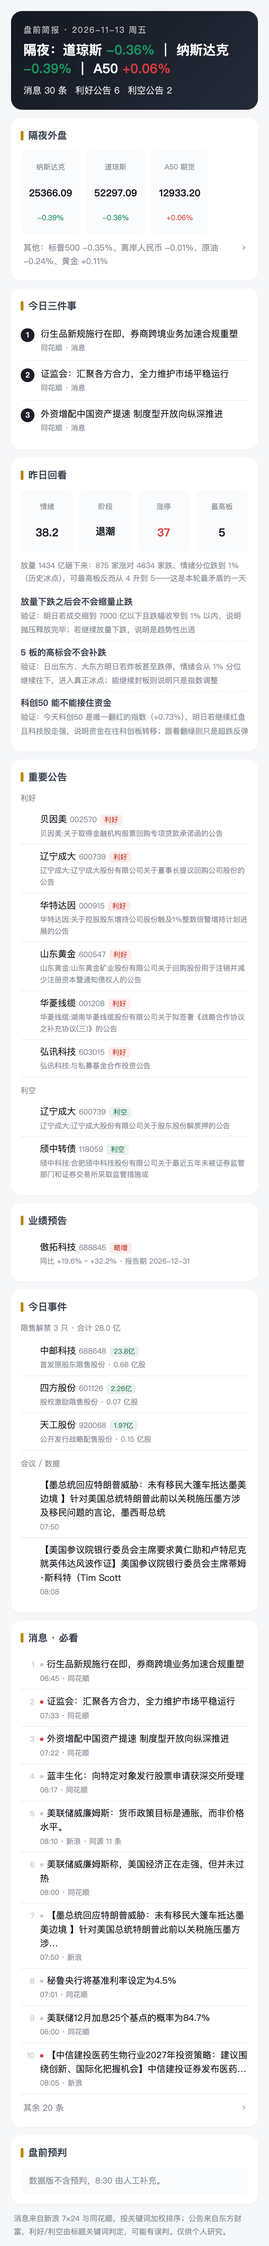
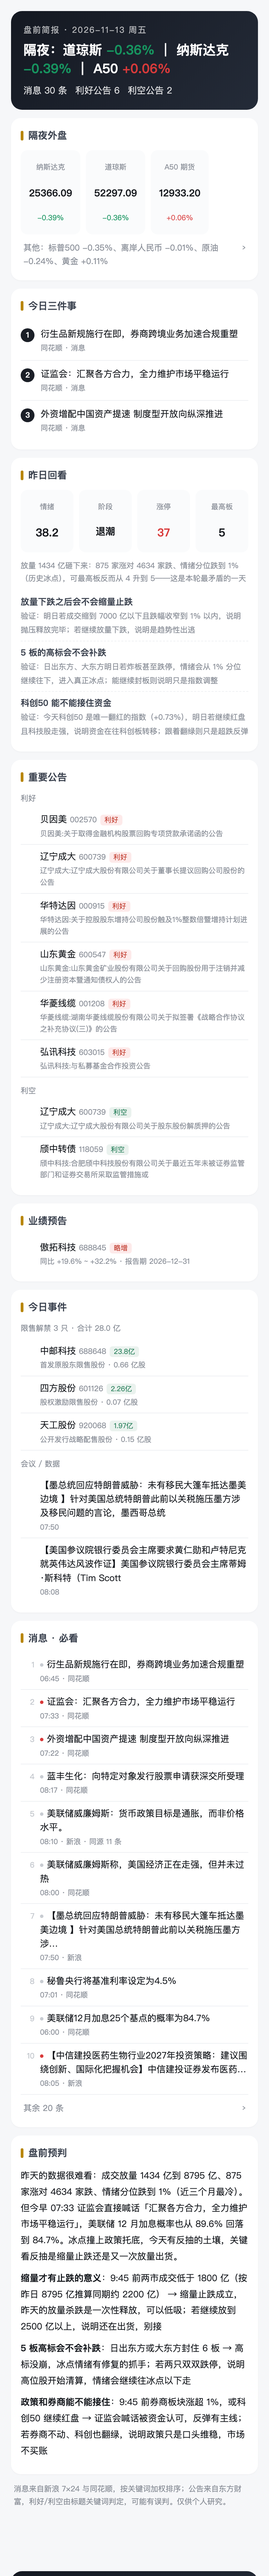
report: 2026-11-12

Changed region(s): [[0.0308, 0.0, 0.9538, 1.0], [0.8308, 0.5615, 0.8923, 0.6239], [0.6462, 0.4992, 0.7077, 0.5304]]

diff --git a/pre/2026-11-13/2026-11-13-盘前.html b/pre/2026-11-13/2026-11-13-盘前.html
@@ -57,4 +57,4 @@ padding:9px 16px;font-size:12.5px;max-width:560px;margin:0 auto}
 .nav a{color:#8a8f98;text-decoration:none;white-space:nowrap}
 .nav a.on{color:#1b1f27;font-weight:700}
 .nav a.home{color:#b8860b;font-weight:600}
-</style><link rel="manifest" href="/a-share-review/manifest.webmanifest"><meta name="theme-color" content="#1b1f27"><meta name="apple-mobile-web-app-capable" content="yes"><meta name="apple-mobile-web-app-status-bar-style" content="black-translucent"><meta name="apple-mobile-web-app-title" content="A股复盘"><link rel="apple-touch-icon" href="/a-share-review/icon-192.png"></head><body><div class="nav"><a class="home" href="../../index.html">⌂ 首页</a><a class="on" href="../../pre/index.html">盘前简报</a></div><div class="wrap"><div class="hero"><div class="d">盘前简报 · 2026-11-13 周五</div><h1>隔夜：道琼斯 <b class="down">-0.36%</b> ｜ 纳斯达克 <b class="down">-0.39%</b> ｜ A50 <b class="up">+0.06%</b></h1><div class="sum"><span>消息 30 条</span><span>利好公告 6</span><span>利空公告 2</span></div></div><div class="card"><h2>隔夜外盘</h2><div class="ov"><div><div class="n">纳斯达克</div><div class="v">25366.09</div><div class="p down">-0.39%</div></div><div><div class="n">道琼斯</div><div class="v">52297.09</div><div class="p down">-0.36%</div></div><div><div class="n">A50 期货</div><div class="v">12933.20</div><div class="p up">+0.06%</div></div></div><details class="more"><summary><span>其他：标普500 -0.35%、离岸人民币 -0.01%、原油 -0.24%、黄金 +0.11%</span><span class="arw">›</span></summary><div class="ov" style="margin-top:8px"><div><div class="n">标普500</div><div class="v">7592.40</div><div class="p down">-0.35%</div></div><div><div class="n">离岸人民币</div><div class="v">6.67</div><div class="p down">-0.01%</div></div><div><div class="n">原油</div><div class="v">88.53</div><div class="p down">-0.24%</div></div><div><div class="n">黄金</div><div class="v">3889.54</div><div class="p up">+0.11%</div></div></div></details></div><div class="card"><h2>今日三件事</h2><div class="t3"><div class="n">1</div><div><div class="t">衍生品新规施行在即，券商跨境业务加速合规重塑</div><div class="s">同花顺 · 消息</div></div></div><div class="t3"><div class="n">2</div><div><div class="t">证监会：汇聚各方合力，全力维护市场平稳运行</div><div class="s">同花顺 · 消息</div></div></div><div class="t3"><div class="n">3</div><div><div class="t">外资增配中国资产提速 制度型开放向纵深推进</div><div class="s">同花顺 · 消息</div></div></div></div><div class="card"><h2>昨日回看</h2><div class="kv"><div><div class="n">情绪</div><div class="v">38.2</div></div><div><div class="n">阶段</div><div class="v" style="font-size:14px">退潮</div></div><div><div class="n">涨停</div><div class="v up">37</div></div><div><div class="n">最高板</div><div class="v">5</div></div></div><div class="note" style="margin-bottom:8px">放量 1434 亿砸下来：875 家涨对 4634 家跌、情绪分位跌到 1%（历史冰点），可最高板反而从 4 升到 5——这是本轮最矛盾的一天</div><div class="watch"><b>放量下跌之后会不会缩量止跌</b><br><span class="note">验证：明日若成交缩到 7000 亿以下且跌幅收窄到 1% 以内，说明抛压释放完毕；若继续放量下跌，说明是趋势性出逃</span></div><div class="watch"><b>5 板的高标会不会补跌</b><br><span class="note">验证：日出东方、大东方明日若炸板甚至跌停，情绪会从 1% 分位继续往下，进入真正冰点；能继续封板则说明只是指数调整</span></div><div class="watch"><b>科创50 能不能接住资金</b><br><span class="note">验证：今天科创50 是唯一翻红的指数（+0.73%），明日若继续红盘且科技股走强，说明资金在往科创板转移；跟着翻绿则只是超跌反弹</span></div></div><div class="card"><h2>重要公告</h2><div class="note" style="margin-bottom:4px">利好</div><div class="item"><div class="no"></div><div class="b"><div class="t">贝因美 <span class="mut" style="font-size:11px">002570</span><span class="tag tag-good">利好</span></div><div class="m">贝因美:关于取得金融机构股票回购专项贷款承诺函的公告</div></div></div><div class="item"><div class="no"></div><div class="b"><div class="t">辽宁成大 <span class="mut" style="font-size:11px">600739</span><span class="tag tag-good">利好</span></div><div class="m">辽宁成大:辽宁成大股份有限公司关于董事长提议回购公司股份的公告</div></div></div><div class="item"><div class="no"></div><div class="b"><div class="t">华特达因 <span class="mut" style="font-size:11px">000915</span><span class="tag tag-good">利好</span></div><div class="m">华特达因:关于控股股东增持公司股份触及1%整数倍暨增持计划进展的公告</div></div></div><div class="item"><div class="no"></div><div class="b"><div class="t">山东黄金 <span class="mut" style="font-size:11px">600547</span><span class="tag tag-good">利好</span></div><div class="m">山东黄金:山东黄金矿业股份有限公司关于回购股份用于注销并减少注册资本暨通知债权人的公告</div></div></div><div class="item"><div class="no"></div><div class="b"><div class="t">华菱线缆 <span class="mut" style="font-size:11px">001208</span><span class="tag tag-good">利好</span></div><div class="m">华菱线缆:湖南华菱线缆股份有限公司关于拟签署《战略合作协议之补充协议(三)》的公告</div></div></div><div class="item"><div class="no"></div><div class="b"><div class="t">弘讯科技 <span class="mut" style="font-size:11px">603015</span><span class="tag tag-good">利好</span></div><div class="m">弘讯科技:与私募基金合作投资公告</div></div></div><div class="note" style="margin:10px 0 4px">利空</div><div class="item"><div class="no"></div><div class="b"><div class="t">辽宁成大 <span class="mut" style="font-size:11px">600739</span><span class="tag tag-bad">利空</span></div><div class="m">辽宁成大:辽宁成大股份有限公司关于股东股份解质押的公告</div></div></div><div class="item"><div class="no"></div><div class="b"><div class="t">颀中转债 <span class="mut" style="font-size:11px">118059</span><span class="tag tag-bad">利空</span></div><div class="m">颀中科技:合肥颀中科技股份有限公司关于最近五年未被证券监管部门和证券交易所采取监管措施或</div></div></div></div><div class="card"><h2>业绩预告</h2><div class="item"><div class="no"></div><div class="b"><div class="t">傲拓科技 <span class="mut" style="font-size:11px">688845</span><span class="tag tag-good">略增</span></div><div class="m">同比 +19.6% ~ +32.2% · 报告期 2026-12-31</div></div></div></div><div class="card"><h2>今日事件</h2><div class="note" style="margin-bottom:6px">限售解禁 3 只 · 合计 28.0 亿</div><div class="item"><div class="no"></div><div class="b"><div class="t">中邮科技 <span class="mut" style="font-size:11px">688648</span><span class="tag tag-bad">23.8亿</span></div><div class="m">首发原股东限售股份 · 0.66 亿股</div></div></div><div class="item"><div class="no"></div><div class="b"><div class="t">四方股份 <span class="mut" style="font-size:11px">601126</span><span class="tag tag-bad">2.26亿</span></div><div class="m">股权激励限售股份 · 0.07 亿股</div></div></div><div class="item"><div class="no"></div><div class="b"><div class="t">天工股份 <span class="mut" style="font-size:11px">920068</span><span class="tag tag-bad">1.97亿</span></div><div class="m">公开发行战略配售股份 · 0.15 亿股</div></div></div><div class="note" style="margin:10px 0 4px">会议 / 数据</div><div class="item"><div class="no"></div><div class="b"><div class="t">【墨总统回应特朗普威胁：未有移民大篷车抵达墨美边境 】针对美国总统特朗普此前以关税施压墨方涉及移民问题的言论，墨西哥总统</div><div class="m">07:50</div></div></div><div class="item"><div class="no"></div><div class="b"><div class="t">【美国参议院银行委员会主席要求黄仁勋和卢特尼克就英伟达风波作证】美国参议院银行委员会主席蒂姆·斯科特（Tim Scott</div><div class="m">08:08</div></div></div></div><div class="card"><h2>消息 · 必看</h2><div class="item"><div class="no">1</div><div class="b"><div class="t"><span class="dot n"></span>衍生品新规施行在即，券商跨境业务加速合规重塑</div><div class="m">06:45 · 同花顺</div></div></div><div class="item"><div class="no">2</div><div class="b"><div class="t"><span class="dot g"></span>证监会：汇聚各方合力，全力维护市场平稳运行</div><div class="m">07:33 · 同花顺</div></div></div><div class="item"><div class="no">3</div><div class="b"><div class="t"><span class="dot g"></span>外资增配中国资产提速 制度型开放向纵深推进</div><div class="m">07:22 · 同花顺</div></div></div><div class="item"><div class="no">4</div><div class="b"><div class="t"><span class="dot n"></span>蓝丰生化：向特定对象发行股票申请获深交所受理</div><div class="m">08:17 · 同花顺</div></div></div><div class="item"><div class="no">5</div><div class="b"><div class="t"><span class="dot n"></span>美联储威廉姆斯：货币政策目标是通胀，而非价格水平。</div><div class="m">08:10 · 新浪 · 同源 11 条</div></div></div><div class="item"><div class="no">6</div><div class="b"><div class="t"><span class="dot n"></span>美联储威廉姆斯称，美国经济正在走强，但并未过热</div><div class="m">08:00 · 同花顺</div></div></div><div class="item"><div class="no">7</div><div class="b"><div class="t"><span class="dot n"></span>【墨总统回应特朗普威胁：未有移民大篷车抵达墨美边境 】针对美国总统特朗普此前以关税施压墨方涉…</div><div class="m">07:50 · 新浪</div></div></div><div class="item"><div class="no">8</div><div class="b"><div class="t"><span class="dot n"></span>秘鲁央行将基准利率设定为4.5%</div><div class="m">07:01 · 同花顺</div></div></div><div class="item"><div class="no">9</div><div class="b"><div class="t"><span class="dot n"></span>美联储12月加息25个基点的概率为84.7%</div><div class="m">06:00 · 同花顺</div></div></div><div class="item"><div class="no">10</div><div class="b"><div class="t"><span class="dot g"></span>【中信建投医药生物行业2027年投资策略：建议围绕创新、国际化把握机会】中信建投证券发布医药…</div><div class="m">08:05 · 新浪</div></div></div><details class="more"><summary><span>其余 20 条</span><span class="arw">›</span></summary><div class="item"><div class="no">11</div><div class="b"><div class="t"><span class="dot g"></span>【华泰证券：AI产业内部或沿回报验证分化】华泰证券研报称，AI产业内部或沿回报验证分化。过去…</div><div class="m">08:00 · 新浪 · 同源 3 条</div></div></div><div class="item"><div class="no">12</div><div class="b"><div class="t"><span class="dot g"></span>【中国代表团在国际电联2026年全权代表大会期间举行招待会】据“工信微报”消息，11月12日…</div><div class="m">07:45 · 新浪</div></div></div><div class="item"><div class="no">13</div><div class="b"><div class="t"><span class="dot g"></span>【三大变化折射证券行业2027年发展前景 板块左侧战略配置价值逐步显现】临近年底，机构对各个…</div><div class="m">07:29 · 新浪</div></div></div><div class="item"><div class="no">14</div><div class="b"><div class="t"><span class="dot g"></span>国星宇航今日登陆港股市场</div><div class="m">06:39 · 同花顺</div></div></div><div class="item"><div class="no">15</div><div class="b"><div class="t"><span class="dot n"></span>美国参议员蒂姆·斯科特传唤黄仁勋与霍华德·卢特尼克，就英伟达风波作证</div><div class="m">08:12 · 同花顺</div></div></div><div class="item"><div class="no">16</div><div class="b"><div class="t"><span class="dot n"></span>【美国参议院银行委员会主席要求黄仁勋和卢特尼克就英伟达风波作证】美国参议院银行委员会主席蒂姆…</div><div class="m">08:08 · 新浪</div></div></div><div class="item"><div class="no">17</div><div class="b"><div class="t"><span class="dot n"></span>【英伟达临时CEO科莱特·克雷斯曾试图管控公司最高风险的业务押注】据报道，英伟达于周四任命其…</div><div class="m">07:36 · 新浪</div></div></div><div class="item"><div class="no">18</div><div class="b"><div class="t"><span class="dot g"></span>纽约期金突破3890美元/盎司，日内涨0.12%。</div><div class="m">08:03 · 新浪</div></div></div><div class="item"><div class="no">19</div><div class="b"><div class="t"><span class="dot g"></span>【Kalshi终止与特朗普长子小唐纳德·特朗普的顾问合作，因其风投公司增持竞争对手Polym…</div><div class="m">07:35 · 新浪</div></div></div><div class="item"><div class="no">20</div><div class="b"><div class="t"><span class="dot g"></span>云顶新耀：依嘉100mg规格获中国国家药品监督管理局批准</div><div class="m">07:17 · 同花顺</div></div></div><div class="item"><div class="no">21</div><div class="b"><div class="t"><span class="dot g"></span>阿富汗与俄罗斯签署经济合作谅解备忘录</div><div class="m">06:10 · 同花顺</div></div></div><div class="item"><div class="no">22</div><div class="b"><div class="t"><span class="dot b2"></span>维珍银河第三财季营收43万美元 高于市场估计的40万美元</div><div class="m">05:32 · 同花顺</div></div></div><div class="item"><div class="no">23</div><div class="b"><div class="t"><span class="dot b2"></span>Cerebras Systems第三财季核心营收为2.309亿美元</div><div class="m">05:10 · 同花顺</div></div></div><div class="item"><div class="no">24</div><div class="b"><div class="t"><span class="dot n"></span>【国金证券：创新药全球价值重估，商业化兑现开启新周期】国金证券研报表示，中国创新药供给端依托…</div><div class="m">08:18 · 新浪</div></div></div><div class="item"><div class="no">25</div><div class="b"><div class="t"><span class="dot n"></span>SK海力士股价领涨韩国芯片股。SK海力士股价早盘上涨4.6%，报1,312,000韩元。三星…</div><div class="m">08:15 · 新浪</div></div></div><div class="item"><div class="no">26</div><div class="b"><div class="t"><span class="dot n"></span>日本芯片相关股票大幅上涨。铠侠股价上涨5.9%，爱德万测试攀升6.5%，揖斐电电子上涨5.1…</div><div class="m">08:14 · 新浪</div></div></div><div class="item"><div class="no">27</div><div class="b"><div class="t"><span class="dot n"></span>【中信证券：产业链盈利逐步修复，锂电板块投资价值凸显】中信证券研报称，从电池与能源管理产业链…</div><div class="m">08:13 · 新浪</div></div></div><div class="item"><div class="no">28</div><div class="b"><div class="t"><span class="dot n"></span>【微软多项服务宕机】微软旗下Microsoft 365、Outlook（电子邮件）、Team…</div><div class="m">08:05 · 新浪</div></div></div><div class="item"><div class="no">29</div><div class="b"><div class="t"><span class="dot n"></span>【消息称三星正洽谈收购数据中心冷却设备制造商摩丁】据知情人士透露，三星电子正在洽谈收购数据中…</div><div class="m">07:46 · 新浪</div></div></div><div class="item"><div class="no">30</div><div class="b"><div class="t"><span class="dot n"></span>【轨道资源日趋拥挤、巨型星座批量组网 轨道空间碎片治理成刚需】作为国内首颗空间碎片监测商业卫…</div><div class="m">07:42 · 新浪</div></div></div></details></div><div class="card"><h2>盘前预判</h2><div class="empty">数据版不含预判，8:30 由人工补充。</div></div><div class="note" style="padding:0 4px">消息来自新浪 7×24 与同花顺，按关键词加权排序；公告来自东方财富，利好/利空由标题关键词判定，可能有误判。仅供个人研究。</div></div></body></html>
+</style><link rel="manifest" href="/a-share-review/manifest.webmanifest"><meta name="theme-color" content="#1b1f27"><meta name="apple-mobile-web-app-capable" content="yes"><meta name="apple-mobile-web-app-status-bar-style" content="black-translucent"><meta name="apple-mobile-web-app-title" content="A股复盘"><link rel="apple-touch-icon" href="/a-share-review/icon-192.png"></head><body><div class="nav"><a class="home" href="../../index.html">⌂ 首页</a><a class="on" href="../../pre/index.html">盘前简报</a></div><div class="wrap"><div class="hero"><div class="d">盘前简报 · 2026-11-13 周五</div><h1>隔夜：道琼斯 <b class="down">-0.36%</b> ｜ 纳斯达克 <b class="down">-0.39%</b> ｜ A50 <b class="up">+0.06%</b></h1><div class="sum"><span>消息 30 条</span><span>利好公告 6</span><span>利空公告 2</span></div></div><div class="card"><h2>隔夜外盘</h2><div class="ov"><div><div class="n">纳斯达克</div><div class="v">25366.09</div><div class="p down">-0.39%</div></div><div><div class="n">道琼斯</div><div class="v">52297.09</div><div class="p down">-0.36%</div></div><div><div class="n">A50 期货</div><div class="v">12933.20</div><div class="p up">+0.06%</div></div></div><details class="more"><summary><span>其他：标普500 -0.35%、离岸人民币 -0.01%、原油 -0.24%、黄金 +0.11%</span><span class="arw">›</span></summary><div class="ov" style="margin-top:8px"><div><div class="n">标普500</div><div class="v">7592.40</div><div class="p down">-0.35%</div></div><div><div class="n">离岸人民币</div><div class="v">6.67</div><div class="p down">-0.01%</div></div><div><div class="n">原油</div><div class="v">88.53</div><div class="p down">-0.24%</div></div><div><div class="n">黄金</div><div class="v">3889.54</div><div class="p up">+0.11%</div></div></div></details></div><div class="card"><h2>今日三件事</h2><div class="t3"><div class="n">1</div><div><div class="t">衍生品新规施行在即，券商跨境业务加速合规重塑</div><div class="s">同花顺 · 消息</div></div></div><div class="t3"><div class="n">2</div><div><div class="t">证监会：汇聚各方合力，全力维护市场平稳运行</div><div class="s">同花顺 · 消息</div></div></div><div class="t3"><div class="n">3</div><div><div class="t">外资增配中国资产提速 制度型开放向纵深推进</div><div class="s">同花顺 · 消息</div></div></div></div><div class="card"><h2>昨日回看</h2><div class="kv"><div><div class="n">情绪</div><div class="v">38.2</div></div><div><div class="n">阶段</div><div class="v" style="font-size:14px">退潮</div></div><div><div class="n">涨停</div><div class="v up">37</div></div><div><div class="n">最高板</div><div class="v">5</div></div></div><div class="note" style="margin-bottom:8px">放量 1434 亿砸下来：875 家涨对 4634 家跌、情绪分位跌到 1%（历史冰点），可最高板反而从 4 升到 5——这是本轮最矛盾的一天</div><div class="watch"><b>放量下跌之后会不会缩量止跌</b><br><span class="note">验证：明日若成交缩到 7000 亿以下且跌幅收窄到 1% 以内，说明抛压释放完毕；若继续放量下跌，说明是趋势性出逃</span></div><div class="watch"><b>5 板的高标会不会补跌</b><br><span class="note">验证：日出东方、大东方明日若炸板甚至跌停，情绪会从 1% 分位继续往下，进入真正冰点；能继续封板则说明只是指数调整</span></div><div class="watch"><b>科创50 能不能接住资金</b><br><span class="note">验证：今天科创50 是唯一翻红的指数（+0.73%），明日若继续红盘且科技股走强，说明资金在往科创板转移；跟着翻绿则只是超跌反弹</span></div></div><div class="card"><h2>重要公告</h2><div class="note" style="margin-bottom:4px">利好</div><div class="item"><div class="no"></div><div class="b"><div class="t">贝因美 <span class="mut" style="font-size:11px">002570</span><span class="tag tag-good">利好</span></div><div class="m">贝因美:关于取得金融机构股票回购专项贷款承诺函的公告</div></div></div><div class="item"><div class="no"></div><div class="b"><div class="t">辽宁成大 <span class="mut" style="font-size:11px">600739</span><span class="tag tag-good">利好</span></div><div class="m">辽宁成大:辽宁成大股份有限公司关于董事长提议回购公司股份的公告</div></div></div><div class="item"><div class="no"></div><div class="b"><div class="t">华特达因 <span class="mut" style="font-size:11px">000915</span><span class="tag tag-good">利好</span></div><div class="m">华特达因:关于控股股东增持公司股份触及1%整数倍暨增持计划进展的公告</div></div></div><div class="item"><div class="no"></div><div class="b"><div class="t">山东黄金 <span class="mut" style="font-size:11px">600547</span><span class="tag tag-good">利好</span></div><div class="m">山东黄金:山东黄金矿业股份有限公司关于回购股份用于注销并减少注册资本暨通知债权人的公告</div></div></div><div class="item"><div class="no"></div><div class="b"><div class="t">华菱线缆 <span class="mut" style="font-size:11px">001208</span><span class="tag tag-good">利好</span></div><div class="m">华菱线缆:湖南华菱线缆股份有限公司关于拟签署《战略合作协议之补充协议(三)》的公告</div></div></div><div class="item"><div class="no"></div><div class="b"><div class="t">弘讯科技 <span class="mut" style="font-size:11px">603015</span><span class="tag tag-good">利好</span></div><div class="m">弘讯科技:与私募基金合作投资公告</div></div></div><div class="note" style="margin:10px 0 4px">利空</div><div class="item"><div class="no"></div><div class="b"><div class="t">辽宁成大 <span class="mut" style="font-size:11px">600739</span><span class="tag tag-bad">利空</span></div><div class="m">辽宁成大:辽宁成大股份有限公司关于股东股份解质押的公告</div></div></div><div class="item"><div class="no"></div><div class="b"><div class="t">颀中转债 <span class="mut" style="font-size:11px">118059</span><span class="tag tag-bad">利空</span></div><div class="m">颀中科技:合肥颀中科技股份有限公司关于最近五年未被证券监管部门和证券交易所采取监管措施或</div></div></div></div><div class="card"><h2>业绩预告</h2><div class="item"><div class="no"></div><div class="b"><div class="t">傲拓科技 <span class="mut" style="font-size:11px">688845</span><span class="tag tag-good">略增</span></div><div class="m">同比 +19.6% ~ +32.2% · 报告期 2026-12-31</div></div></div></div><div class="card"><h2>今日事件</h2><div class="note" style="margin-bottom:6px">限售解禁 3 只 · 合计 28.0 亿</div><div class="item"><div class="no"></div><div class="b"><div class="t">中邮科技 <span class="mut" style="font-size:11px">688648</span><span class="tag tag-bad">23.8亿</span></div><div class="m">首发原股东限售股份 · 0.66 亿股</div></div></div><div class="item"><div class="no"></div><div class="b"><div class="t">四方股份 <span class="mut" style="font-size:11px">601126</span><span class="tag tag-bad">2.26亿</span></div><div class="m">股权激励限售股份 · 0.07 亿股</div></div></div><div class="item"><div class="no"></div><div class="b"><div class="t">天工股份 <span class="mut" style="font-size:11px">920068</span><span class="tag tag-bad">1.97亿</span></div><div class="m">公开发行战略配售股份 · 0.15 亿股</div></div></div><div class="note" style="margin:10px 0 4px">会议 / 数据</div><div class="item"><div class="no"></div><div class="b"><div class="t">【墨总统回应特朗普威胁：未有移民大篷车抵达墨美边境 】针对美国总统特朗普此前以关税施压墨方涉及移民问题的言论，墨西哥总统</div><div class="m">07:50</div></div></div><div class="item"><div class="no"></div><div class="b"><div class="t">【美国参议院银行委员会主席要求黄仁勋和卢特尼克就英伟达风波作证】美国参议院银行委员会主席蒂姆·斯科特（Tim Scott</div><div class="m">08:08</div></div></div></div><div class="card"><h2>消息 · 必看</h2><div class="item"><div class="no">1</div><div class="b"><div class="t"><span class="dot n"></span>衍生品新规施行在即，券商跨境业务加速合规重塑</div><div class="m">06:45 · 同花顺</div></div></div><div class="item"><div class="no">2</div><div class="b"><div class="t"><span class="dot g"></span>证监会：汇聚各方合力，全力维护市场平稳运行</div><div class="m">07:33 · 同花顺</div></div></div><div class="item"><div class="no">3</div><div class="b"><div class="t"><span class="dot g"></span>外资增配中国资产提速 制度型开放向纵深推进</div><div class="m">07:22 · 同花顺</div></div></div><div class="item"><div class="no">4</div><div class="b"><div class="t"><span class="dot n"></span>蓝丰生化：向特定对象发行股票申请获深交所受理</div><div class="m">08:17 · 同花顺</div></div></div><div class="item"><div class="no">5</div><div class="b"><div class="t"><span class="dot n"></span>美联储威廉姆斯：货币政策目标是通胀，而非价格水平。</div><div class="m">08:10 · 新浪 · 同源 11 条</div></div></div><div class="item"><div class="no">6</div><div class="b"><div class="t"><span class="dot n"></span>美联储威廉姆斯称，美国经济正在走强，但并未过热</div><div class="m">08:00 · 同花顺</div></div></div><div class="item"><div class="no">7</div><div class="b"><div class="t"><span class="dot n"></span>【墨总统回应特朗普威胁：未有移民大篷车抵达墨美边境 】针对美国总统特朗普此前以关税施压墨方涉…</div><div class="m">07:50 · 新浪</div></div></div><div class="item"><div class="no">8</div><div class="b"><div class="t"><span class="dot n"></span>秘鲁央行将基准利率设定为4.5%</div><div class="m">07:01 · 同花顺</div></div></div><div class="item"><div class="no">9</div><div class="b"><div class="t"><span class="dot n"></span>美联储12月加息25个基点的概率为84.7%</div><div class="m">06:00 · 同花顺</div></div></div><div class="item"><div class="no">10</div><div class="b"><div class="t"><span class="dot g"></span>【中信建投医药生物行业2027年投资策略：建议围绕创新、国际化把握机会】中信建投证券发布医药…</div><div class="m">08:05 · 新浪</div></div></div><details class="more"><summary><span>其余 20 条</span><span class="arw">›</span></summary><div class="item"><div class="no">11</div><div class="b"><div class="t"><span class="dot g"></span>【华泰证券：AI产业内部或沿回报验证分化】华泰证券研报称，AI产业内部或沿回报验证分化。过去…</div><div class="m">08:00 · 新浪 · 同源 3 条</div></div></div><div class="item"><div class="no">12</div><div class="b"><div class="t"><span class="dot g"></span>【中国代表团在国际电联2026年全权代表大会期间举行招待会】据“工信微报”消息，11月12日…</div><div class="m">07:45 · 新浪</div></div></div><div class="item"><div class="no">13</div><div class="b"><div class="t"><span class="dot g"></span>【三大变化折射证券行业2027年发展前景 板块左侧战略配置价值逐步显现】临近年底，机构对各个…</div><div class="m">07:29 · 新浪</div></div></div><div class="item"><div class="no">14</div><div class="b"><div class="t"><span class="dot g"></span>国星宇航今日登陆港股市场</div><div class="m">06:39 · 同花顺</div></div></div><div class="item"><div class="no">15</div><div class="b"><div class="t"><span class="dot n"></span>美国参议员蒂姆·斯科特传唤黄仁勋与霍华德·卢特尼克，就英伟达风波作证</div><div class="m">08:12 · 同花顺</div></div></div><div class="item"><div class="no">16</div><div class="b"><div class="t"><span class="dot n"></span>【美国参议院银行委员会主席要求黄仁勋和卢特尼克就英伟达风波作证】美国参议院银行委员会主席蒂姆…</div><div class="m">08:08 · 新浪</div></div></div><div class="item"><div class="no">17</div><div class="b"><div class="t"><span class="dot n"></span>【英伟达临时CEO科莱特·克雷斯曾试图管控公司最高风险的业务押注】据报道，英伟达于周四任命其…</div><div class="m">07:36 · 新浪</div></div></div><div class="item"><div class="no">18</div><div class="b"><div class="t"><span class="dot g"></span>纽约期金突破3890美元/盎司，日内涨0.12%。</div><div class="m">08:03 · 新浪</div></div></div><div class="item"><div class="no">19</div><div class="b"><div class="t"><span class="dot g"></span>【Kalshi终止与特朗普长子小唐纳德·特朗普的顾问合作，因其风投公司增持竞争对手Polym…</div><div class="m">07:35 · 新浪</div></div></div><div class="item"><div class="no">20</div><div class="b"><div class="t"><span class="dot g"></span>云顶新耀：依嘉100mg规格获中国国家药品监督管理局批准</div><div class="m">07:17 · 同花顺</div></div></div><div class="item"><div class="no">21</div><div class="b"><div class="t"><span class="dot g"></span>阿富汗与俄罗斯签署经济合作谅解备忘录</div><div class="m">06:10 · 同花顺</div></div></div><div class="item"><div class="no">22</div><div class="b"><div class="t"><span class="dot b2"></span>维珍银河第三财季营收43万美元 高于市场估计的40万美元</div><div class="m">05:32 · 同花顺</div></div></div><div class="item"><div class="no">23</div><div class="b"><div class="t"><span class="dot b2"></span>Cerebras Systems第三财季核心营收为2.309亿美元</div><div class="m">05:10 · 同花顺</div></div></div><div class="item"><div class="no">24</div><div class="b"><div class="t"><span class="dot n"></span>【国金证券：创新药全球价值重估，商业化兑现开启新周期】国金证券研报表示，中国创新药供给端依托…</div><div class="m">08:18 · 新浪</div></div></div><div class="item"><div class="no">25</div><div class="b"><div class="t"><span class="dot n"></span>SK海力士股价领涨韩国芯片股。SK海力士股价早盘上涨4.6%，报1,312,000韩元。三星…</div><div class="m">08:15 · 新浪</div></div></div><div class="item"><div class="no">26</div><div class="b"><div class="t"><span class="dot n"></span>日本芯片相关股票大幅上涨。铠侠股价上涨5.9%，爱德万测试攀升6.5%，揖斐电电子上涨5.1…</div><div class="m">08:14 · 新浪</div></div></div><div class="item"><div class="no">27</div><div class="b"><div class="t"><span class="dot n"></span>【中信证券：产业链盈利逐步修复，锂电板块投资价值凸显】中信证券研报称，从电池与能源管理产业链…</div><div class="m">08:13 · 新浪</div></div></div><div class="item"><div class="no">28</div><div class="b"><div class="t"><span class="dot n"></span>【微软多项服务宕机】微软旗下Microsoft 365、Outlook（电子邮件）、Team…</div><div class="m">08:05 · 新浪</div></div></div><div class="item"><div class="no">29</div><div class="b"><div class="t"><span class="dot n"></span>【消息称三星正洽谈收购数据中心冷却设备制造商摩丁】据知情人士透露，三星电子正在洽谈收购数据中…</div><div class="m">07:46 · 新浪</div></div></div><div class="item"><div class="no">30</div><div class="b"><div class="t"><span class="dot n"></span>【轨道资源日趋拥挤、巨型星座批量组网 轨道空间碎片治理成刚需】作为国内首颗空间碎片监测商业卫…</div><div class="m">07:42 · 新浪</div></div></div></details></div><div class="card"><h2>盘前预判</h2><div class="jd"><p>昨天的数据很难看：成交放量 1434 亿到 8795 亿、875 家涨对 4634 家跌、情绪分位跌到 1%（近三个月最冷）。但今早 07:33 证监会直接喊话「汇聚各方合力，全力维护市场平稳运行」，美联储 12 月加息概率也从 89.6% 回落到 84.7%。冰点撞上政策托底，今天有反抽的土壤，关键看反抽是缩量止跌还是又一次放量出货。</p><p><b>缩量才有止跌的意义</b>：9:45 前两市成交低于 1800 亿（按昨日 8795 亿推算同期约 2200 亿） → 缩量止跌成立，昨天的放量杀跌是一次性释放，可以低吸；若继续放到 2500 亿以上，说明还在出货，别接</p><p><b>5 板高标会不会补跌</b>：日出东方或大东方封住 6 板 → 高标没崩，冰点情绪有修复的抓手；若两只双双跌停，说明高位股开始清算，情绪会继续往冰点以下走</p><p><b>政策和券商能不能接住</b>：9:45 前券商板块涨超 1%，或科创50 继续红盘 → 证监会喊话被资金认可，反弹有主线；若券商不动、科创也翻绿，说明政策只是口头维稳，市场不买账</p></div></div><div class="note" style="padding:0 4px">消息来自新浪 7×24 与同花顺，按关键词加权排序；公告来自东方财富，利好/利空由标题关键词判定，可能有误判。仅供个人研究。</div></div></body></html>

diff --git a/pre/index.html b/pre/index.html
@@ -47,6 +47,6 @@ padding-bottom:env(safe-area-inset-bottom)}
 .tabbar a.on::after{content:"";display:block;width:18px;height:2.5px;border-radius:2px;background:var(--gold);margin:5px auto 0}
 </style><link rel="manifest" href="/a-share-review/manifest.webmanifest"><meta name="theme-color" content="#1b1f27"><meta name="apple-mobile-web-app-capable" content="yes"><meta name="apple-mobile-web-app-status-bar-style" content="black-translucent"><meta name="apple-mobile-web-app-title" content="A股复盘"><link rel="apple-touch-icon" href="/a-share-review/icon-192.png"></head><body><div class="wrap">
 <div class="head"><h1>盘前简报</h1><div class="sub">共 10 篇 · 交易日 08:20</div></div>
-<a class="hero" href="2026-11-13/2026-11-13-盘前.html?v=1794529208"><div class="ht">最新盘前 · 2026-11-13</div><div class="hrow"><div><div class="hn">纳指</div><div class="hv down">-0.39%</div></div><div><div class="hn">道指</div><div class="hv down">-0.36%</div></div><div><div class="hn">A50</div><div class="hv up">+0.06%</div></div><div><div class="hn">消息</div><div class="hv">30</div></div></div><div class="hb">点开看完整盘前简报 →</div></a>
-<details class="month" open><summary><span><b>2026-11</b>　10 篇</span><span class="arw">›</span></summary><div class="list"><a class="row" href="2026-11-13/2026-11-13-盘前.html?v=1794529208"><div class="rl"><div class="rd">11-13</div><div class="rw">周五</div></div><div class="rm"><span class="k down">纳指 -0.39%</span><span class="k2">30 条消息</span></div></a><a class="row" href="2026-11-12/2026-11-12-盘前.html?v=1794443410"><div class="rl"><div class="rd">11-12</div><div class="rw">周四</div></div><div class="rm"><span class="k up">纳指 +1.60%</span><span class="k2">30 条消息</span><span class="tag2">预判</span></div></a><a class="row" href="2026-11-11/2026-11-11-盘前.html?v=1794357010"><div class="rl"><div class="rd">11-11</div><div class="rw">周三</div></div><div class="rm"><span class="k down">纳指 -0.74%</span><span class="k2">30 条消息</span><span class="tag2">预判</span></div></a><a class="row" href="2026-11-10/2026-11-10-盘前.html?v=1794270612"><div class="rl"><div class="rd">11-10</div><div class="rw">周二</div></div><div class="rm"><span class="k up">纳指 +2.74%</span><span class="k2">30 条消息</span><span class="tag2">预判</span></div></a><a class="row" href="2026-11-09/2026-11-09-盘前.html?v=1794194683"><div class="rl"><div class="rd">11-09</div><div class="rw">周一</div></div><div class="rm"><span class="k up">纳指 +1.09%</span><span class="k2">30 条消息</span><span class="tag2">预判</span></div></a><a class="row" href="2026-11-06/2026-11-06-盘前.html?v=1793928167"><div class="rl"><div class="rd">11-06</div><div class="rw">周五</div></div><div class="rm"><span class="k down">纳指 -5.52%</span><span class="k2">30 条消息</span><span class="tag2">预判</span></div></a><a class="row" href="2026-11-05/2026-11-05-盘前.html?v=1793928167"><div class="rl"><div class="rd">11-05</div><div class="rw">周四</div></div><div class="rm"><span class="k up">纳指 +1.44%</span><span class="k2">18 条消息</span><span class="tag2">预判</span></div></a><a class="row" href="2026-11-04/2026-11-04-盘前.html?v=1793928167"><div class="rl"><div class="rd">11-04</div><div class="rw">周三</div></div><div class="rm"><span class="k up">纳指 +0.83%</span><span class="k2">30 条消息</span><span class="tag2">预判</span></div></a><a class="row" href="2026-11-03/2026-11-03-盘前.html?v=1793928166"><div class="rl"><div class="rd">11-03</div><div class="rw">周二</div></div><div class="rm"><span class="k down">纳指 -1.07%</span><span class="k2">30 条消息</span><span class="tag2">预判</span></div></a><a class="row" href="2026-11-02/2026-11-02-盘前.html?v=1793928166"><div class="rl"><div class="rd">11-02</div><div class="rw">周一</div></div><div class="rm"><span class="k down">纳指 -2.86%</span><span class="k2">30 条消息</span></div></a></div></details>
+<a class="hero" href="2026-11-13/2026-11-13-盘前.html?v=1794529811"><div class="ht">最新盘前 · 2026-11-13</div><div class="hrow"><div><div class="hn">纳指</div><div class="hv down">-0.39%</div></div><div><div class="hn">道指</div><div class="hv down">-0.36%</div></div><div><div class="hn">A50</div><div class="hv up">+0.06%</div></div><div><div class="hn">消息</div><div class="hv">30</div></div></div><div class="hj">昨天的数据很难看：成交放量 1434 亿到 8795 亿、875 家涨对 4634 家跌、情绪分位跌到 1%（近三个月最</div><div class="hb">点开看完整盘前简报 →</div></a>
+<details class="month" open><summary><span><b>2026-11</b>　10 篇</span><span class="arw">›</span></summary><div class="list"><a class="row" href="2026-11-13/2026-11-13-盘前.html?v=1794529811"><div class="rl"><div class="rd">11-13</div><div class="rw">周五</div></div><div class="rm"><span class="k down">纳指 -0.39%</span><span class="k2">30 条消息</span><span class="tag2">预判</span></div></a><a class="row" href="2026-11-12/2026-11-12-盘前.html?v=1794443410"><div class="rl"><div class="rd">11-12</div><div class="rw">周四</div></div><div class="rm"><span class="k up">纳指 +1.60%</span><span class="k2">30 条消息</span><span class="tag2">预判</span></div></a><a class="row" href="2026-11-11/2026-11-11-盘前.html?v=1794357010"><div class="rl"><div class="rd">11-11</div><div class="rw">周三</div></div><div class="rm"><span class="k down">纳指 -0.74%</span><span class="k2">30 条消息</span><span class="tag2">预判</span></div></a><a class="row" href="2026-11-10/2026-11-10-盘前.html?v=1794270612"><div class="rl"><div class="rd">11-10</div><div class="rw">周二</div></div><div class="rm"><span class="k up">纳指 +2.74%</span><span class="k2">30 条消息</span><span class="tag2">预判</span></div></a><a class="row" href="2026-11-09/2026-11-09-盘前.html?v=1794194683"><div class="rl"><div class="rd">11-09</div><div class="rw">周一</div></div><div class="rm"><span class="k up">纳指 +1.09%</span><span class="k2">30 条消息</span><span class="tag2">预判</span></div></a><a class="row" href="2026-11-06/2026-11-06-盘前.html?v=1793928167"><div class="rl"><div class="rd">11-06</div><div class="rw">周五</div></div><div class="rm"><span class="k down">纳指 -5.52%</span><span class="k2">30 条消息</span><span class="tag2">预判</span></div></a><a class="row" href="2026-11-05/2026-11-05-盘前.html?v=1793928167"><div class="rl"><div class="rd">11-05</div><div class="rw">周四</div></div><div class="rm"><span class="k up">纳指 +1.44%</span><span class="k2">18 条消息</span><span class="tag2">预判</span></div></a><a class="row" href="2026-11-04/2026-11-04-盘前.html?v=1793928167"><div class="rl"><div class="rd">11-04</div><div class="rw">周三</div></div><div class="rm"><span class="k up">纳指 +0.83%</span><span class="k2">30 条消息</span><span class="tag2">预判</span></div></a><a class="row" href="2026-11-03/2026-11-03-盘前.html?v=1793928166"><div class="rl"><div class="rd">11-03</div><div class="rw">周二</div></div><div class="rm"><span class="k down">纳指 -1.07%</span><span class="k2">30 条消息</span><span class="tag2">预判</span></div></a><a class="row" href="2026-11-02/2026-11-02-盘前.html?v=1793928166"><div class="rl"><div class="rd">11-02</div><div class="rw">周一</div></div><div class="rm"><span class="k down">纳指 -2.86%</span><span class="k2">30 条消息</span></div></a></div></details>
 </div><div class="tabbar"><a href="../index.html">每日复盘</a><a href="index.html" class="on">盘前简报</a><a href="../earn/index.html">业绩追踪</a></div></body></html>

diff --git a/index.html b/index.html
@@ -180,7 +180,7 @@ padding-bottom:env(safe-area-inset-bottom)}
   </div>
 </a></div></details>
 <div class="foot">数据与判断仅供个人研究，不构成投资建议<br>
-生成于 2026-11-13 08:20</div>
+生成于 2026-11-13 08:30</div>
 <div class="tabbar"><a href="index.html" class="on">每日复盘</a><a href="pre/index.html">盘前简报</a><a href="earn/index.html">业绩追踪</a></div>
 </div>
 <script>

diff --git a/pre/2026-11-13/2026-11-13-盘前.md b/pre/2026-11-13/2026-11-13-盘前.md
@@ -89,4 +89,8 @@
 
 ## 盘前预判
 
-> 8:30 由人工补充（数据版不含预判）。
+昨天的数据很难看：成交放量 1434 亿到 8795 亿、875 家涨对 4634 家跌、情绪分位跌到 1%（近三个月最冷）。但今早 07:33 证监会直接喊话「汇聚各方合力，全力维护市场平稳运行」，美联储 12 月加息概率也从 89.6% 回落到 84.7%。冰点撞上政策托底，今天有反抽的土壤，关键看反抽是缩量止跌还是又一次放量出货。
+
+- **缩量才有止跌的意义**：9:45 前两市成交低于 1800 亿（按昨日 8795 亿推算同期约 2200 亿） → 缩量止跌成立，昨天的放量杀跌是一次性释放，可以低吸；若继续放到 2500 亿以上，说明还在出货，别接
+- **5 板高标会不会补跌**：日出东方或大东方封住 6 板 → 高标没崩，冰点情绪有修复的抓手；若两只双双跌停，说明高位股开始清算，情绪会继续往冰点以下走
+- **政策和券商能不能接住**：9:45 前券商板块涨超 1%，或科创50 继续红盘 → 证监会喊话被资金认可，反弹有主线；若券商不动、科创也翻绿，说明政策只是口头维稳，市场不买账
